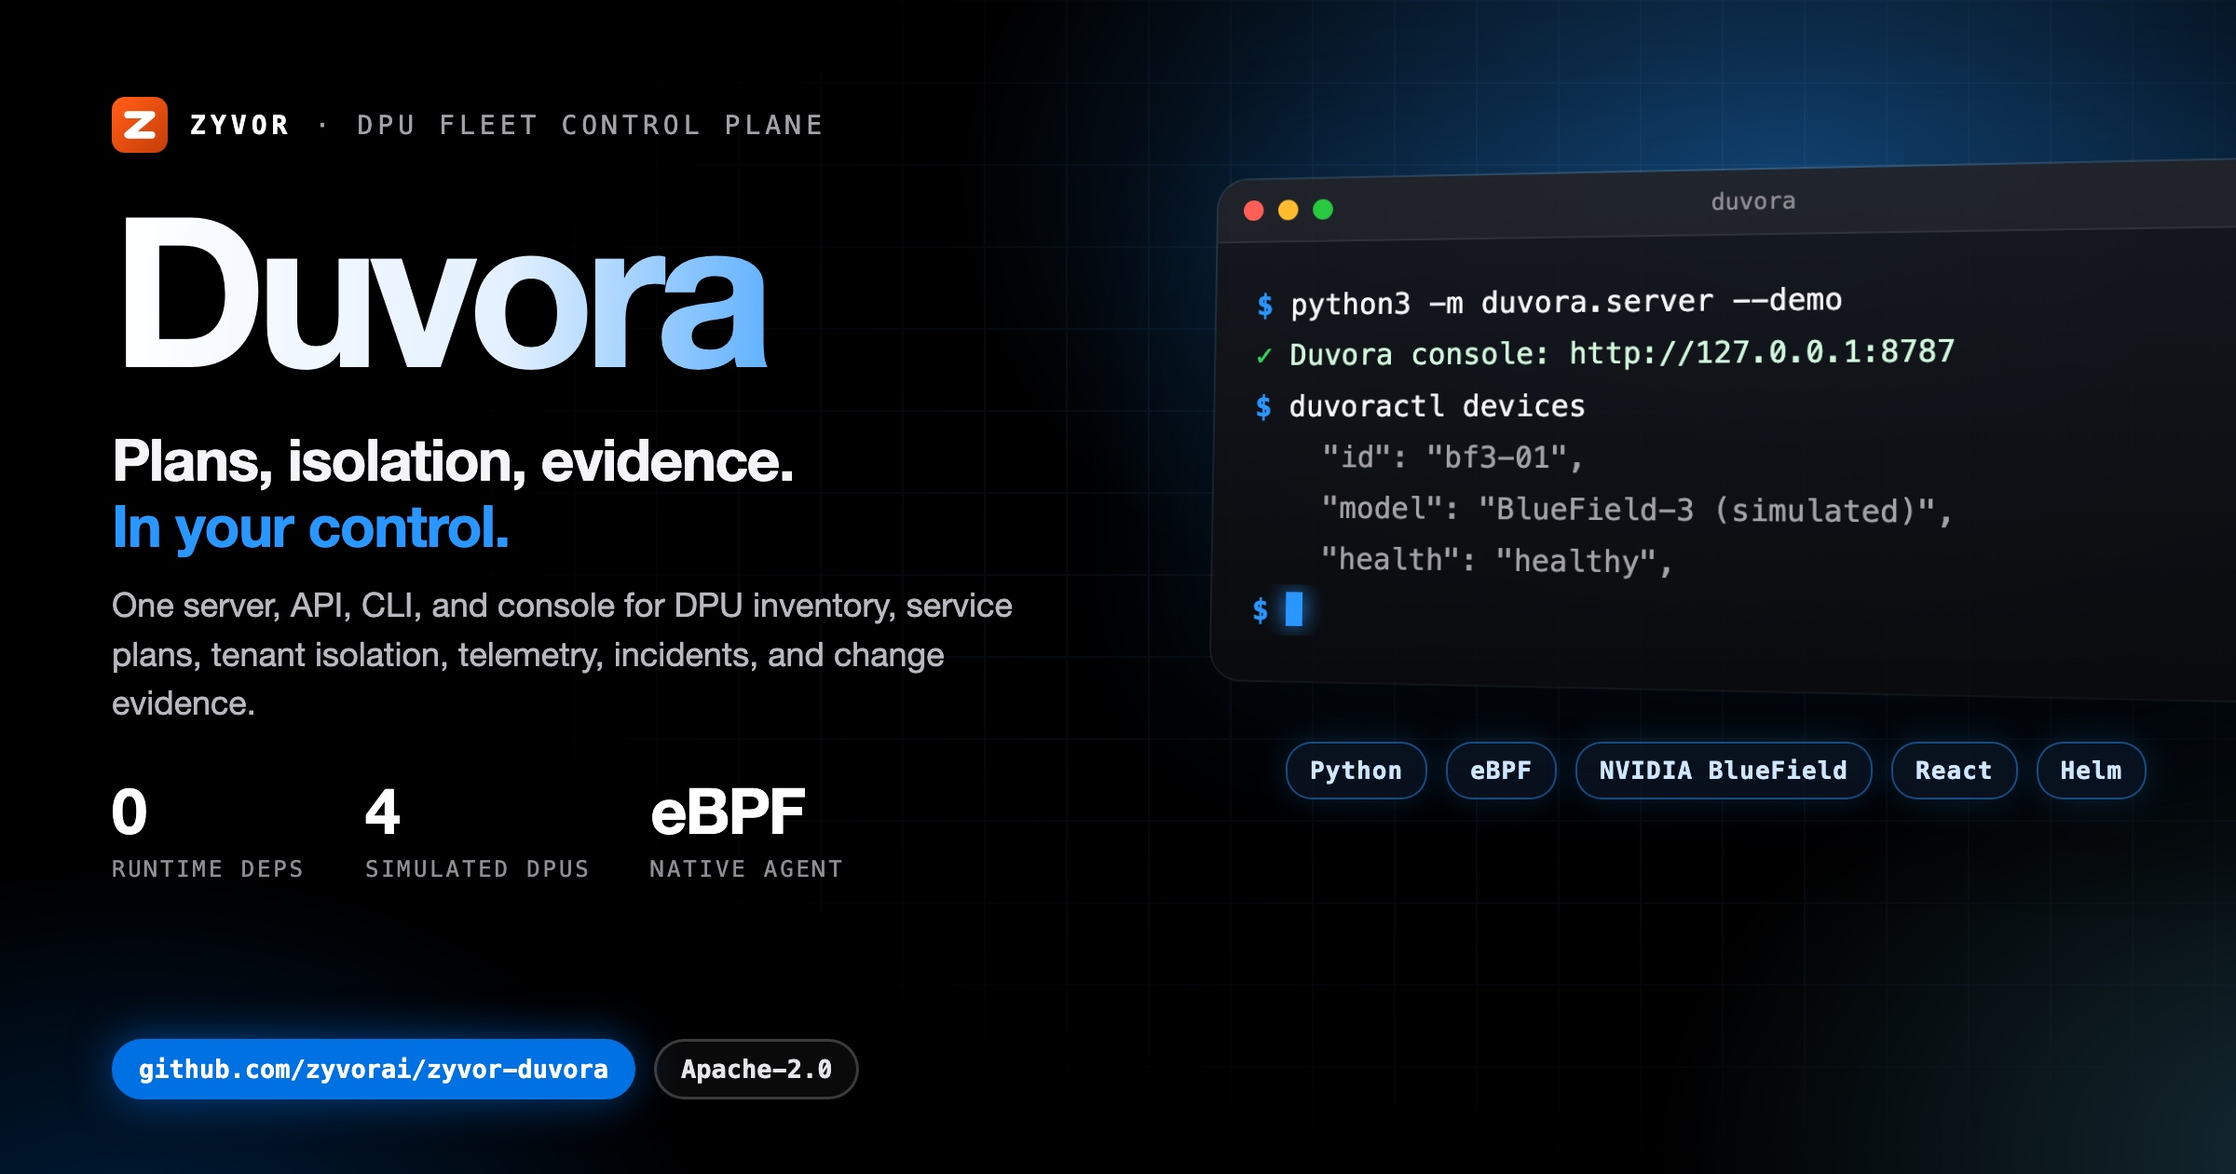
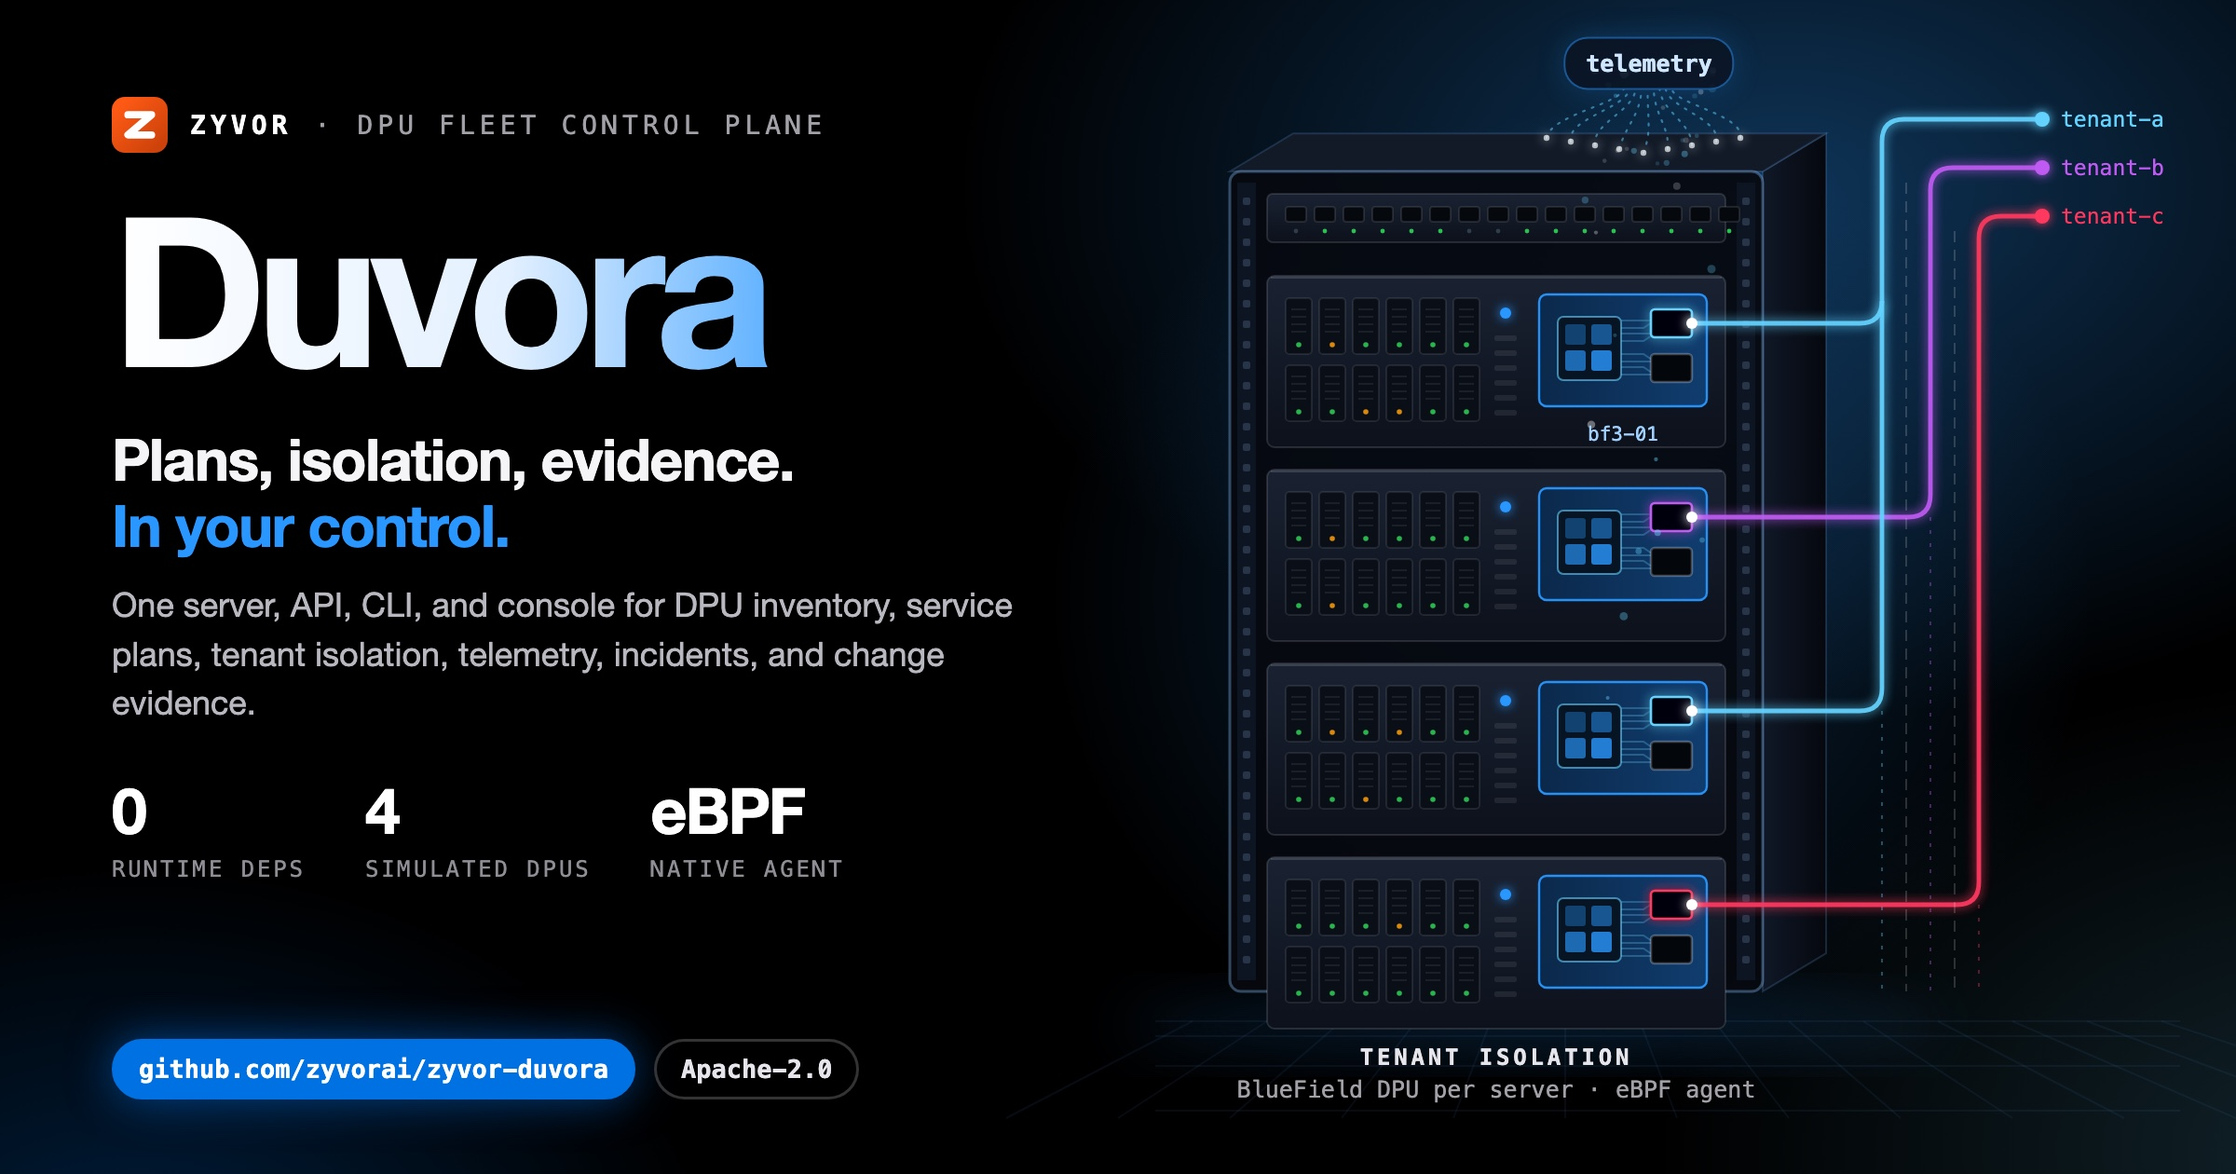
docs(social): unique illustrated hero card
Replace the shared terminal-window art with a motif drawn for this project;
same verified copy and stats on the left.

Changed region(s): [[0.5312, 0.031, 1.0, 0.9286], [0.75, 0.9286, 0.7812, 0.9595]]

diff --git a/docs/social/duvora-hero-dark.html b/docs/social/duvora-hero-dark.html
@@ -8,58 +8,47 @@
   Build: ./docs/social/build-hero-dark.sh  ->  duvora-hero-dark.jpg (2400x1260)
 -->
 <style>
-  :root { --blue:#0071e3; --signal:#2997ff; --cyan:#64d2ff; --green:#30d158; --amber:#ff9f0a;
+  :root { --blue:#0071e3; --signal:#2997ff; --cyan:#64d2ff; --green:#30d158; --amber:#ff9f0a; --red:#ff453a; --violet:#bf5af2;
     --sans:'SF Pro Display','Helvetica Neue',Helvetica,Arial,sans-serif; --mono:'SF Mono',Menlo,Consolas,monospace; }
   * { box-sizing:border-box; }
   html,body { margin:0; padding:0; }
   body { width:1200px; height:630px; overflow:hidden; color:#f5f5f7; font-family:var(--sans); position:relative; background:#000; }
   .aurora { position:absolute; inset:0;
-    background:radial-gradient(720px 460px at 80% 16%, rgba(41,151,255,.40), transparent 62%),
-               radial-gradient(600px 420px at 104% 98%, rgba(100,210,255,.20), transparent 60%),
+    background:radial-gradient(720px 460px at 80% 16%, rgba(41,151,255,.34), transparent 62%),
+               radial-gradient(600px 420px at 104% 98%, rgba(100,210,255,.16), transparent 60%),
                radial-gradient(520px 380px at 6% 110%, rgba(0,113,227,.28), transparent 60%); }
-  .grid { position:absolute; inset:0; opacity:.09;
-    background-image:linear-gradient(rgba(120,180,255,.9) 1px,transparent 1px),linear-gradient(90deg,rgba(120,180,255,.9) 1px,transparent 1px);
-    background-size:44px 44px; -webkit-mask-image:radial-gradient(900px 520px at 72% 42%, #000 18%, transparent 75%); }
-  .left { position:absolute; left:60px; top:52px; width:560px; z-index:3; }
+  .copy { position:absolute; left:60px; top:52px; width:560px; z-index:3; }
   .brand { display:flex; align-items:center; gap:12px; font-family:var(--mono); font-size:14px; letter-spacing:.18em; text-transform:uppercase; color:#a1a1a6; }
   .brand b { color:#fff; }
   .word { margin:20px 0 0; font-size:112px; line-height:.95; font-weight:800; letter-spacing:-.05em; white-space:nowrap;
     background:linear-gradient(92deg,#fff 0%,#e3f0ff 38%,var(--signal) 74%,var(--cyan) 100%); -webkit-background-clip:text; background-clip:text; color:transparent; padding-bottom:6px; }
   .tag { margin:14px 0 0; font-size:31px; line-height:1.15; font-weight:700; letter-spacing:-.02em; }
   .tag em { font-style:normal; color:var(--signal); }
-  .lede { margin:12px 0 0; font-size:18px; line-height:1.45; color:#b8b8bf; width:520px; }
+  .lede { margin:12px 0 0; font-size:18px; line-height:1.45; color:#b8b8bf; width:520px; text-shadow:0 1px 12px #000; }
   .stats { margin-top:24px; display:flex; gap:32px; }
   .stat b { display:block; font-size:34px; font-weight:800; letter-spacing:-.03em; color:#fff; }
   .stat span { font-family:var(--mono); font-size:12px; letter-spacing:.12em; text-transform:uppercase; color:#8e8e93; }
   .pill { position:absolute; left:60px; bottom:40px; display:flex; gap:10px; z-index:3; }
-  .pill span { font-family:var(--mono); font-size:13.5px; font-weight:700; padding:7px 13px; border-radius:18px; border:1.5px solid rgba(255,255,255,.2); color:#e5e5ea; background:rgba(255,255,255,.04); }
+  .pill span { font-family:var(--mono); font-size:13.5px; font-weight:700; padding:7px 13px; border-radius:18px; border:1.5px solid rgba(255,255,255,.2); color:#e5e5ea; background:rgba(0,0,0,.6); }
   .pill span.b { background:var(--blue); border-color:var(--blue); color:#fff; box-shadow:0 0 24px rgba(0,113,227,.55); }
-
-  .right { position:absolute; left:652px; top:96px; width:560px; z-index:2; }
-  .win { position:relative; width:560px; border-radius:16px; overflow:hidden; z-index:2;
-    background:linear-gradient(180deg, rgba(22,24,30,.94), rgba(10,11,14,.96));
-    box-shadow:0 50px 100px rgba(0,0,0,.75), 0 0 0 1px rgba(255,255,255,.14), 0 0 90px rgba(41,151,255,.22);
-    transform:perspective(1600px) rotateY(-14deg) rotateX(4deg); transform-origin:left center; }
-  .bar { height:34px; display:flex; align-items:center; gap:8px; padding:0 14px; background:rgba(255,255,255,.05); border-bottom:1px solid rgba(255,255,255,.07); }
-  .bar i { width:11px; height:11px; border-radius:50%; background:#ff5f57; } .bar i:nth-child(2){background:#febc2e} .bar i:nth-child(3){background:#28c840}
-  .bar em { margin-left:auto; margin-right:auto; font-style:normal; font-family:var(--mono); font-size:12px; color:#8e8e93; transform:translateX(-24px); }
-  .term { min-height:214px; padding:20px 22px 24px; font-family:var(--mono); font-size:15.5px; line-height:1.75; }
-  .l { white-space:pre; overflow:hidden; text-overflow:ellipsis; color:#f5f5f7; }
-  .l .p { color:var(--signal); font-weight:700; }
-  .l.out { color:#a1a1a6; }
-  .l.cm { color:#6e6e73; }
-  .l.ok { color:#d1f7dc; } .l.ok span { color:var(--green); font-weight:700; }
-  .l.warn { color:#ffe1b0; } .l.warn span { color:var(--amber); font-weight:700; }
-  .cur { display:inline-block; width:9px; height:18px; background:var(--signal); vertical-align:-3px; box-shadow:0 0 12px var(--signal); }
-  .chips { margin:34px 0 0 38px; width:480px; display:flex; flex-wrap:wrap; gap:10px; position:relative; z-index:3; }
-  .chips span { font-family:var(--mono); font-size:13px; font-weight:700; letter-spacing:.04em; padding:7px 12px; border-radius:14px;
-    color:#cfe6ff; background:rgba(10,20,35,.82); border:1px solid rgba(41,151,255,.45); box-shadow:0 0 18px rgba(41,151,255,.18); }
+  .art { position:absolute; left:520px; top:0; width:680px; height:630px; z-index:2; }
+  .art svg { display:block; }
+  #labels { position:absolute; inset:0; z-index:4; pointer-events:none; }
+  .lbl { position:absolute; font-family:var(--mono); font-size:12.5px; color:#a1a1a6; text-align:center; transform:translate(-50%,-50%); white-space:nowrap; }
+  .lbl b { display:block; font-size:12px; letter-spacing:.16em; text-transform:uppercase; color:#e5e5ea; }
+  .lbl span { display:block; margin-top:3px; }
+  .lbl.box { padding:7px 12px; border-radius:12px; background:rgba(8,10,14,.85); border:1px solid rgba(255,255,255,.14); }
+  .lbl.chip { padding:6px 11px; border-radius:13px; font-size:12.5px; font-weight:700; color:#cfe6ff; background:rgba(10,20,35,.85); border:1px solid rgba(41,151,255,.5); box-shadow:0 0 16px rgba(41,151,255,.2); }
+  .lbl.left { transform:translate(0,-50%); text-align:left; }
+  .lbl.right { transform:translate(-100%,-50%); text-align:right; }
+  .ok { color:var(--green) !important; } .warn { color:var(--amber) !important; } .bad { color:var(--red) !important; } .sig { color:var(--signal) !important; } .cy { color:var(--cyan) !important; } .vi { color:var(--violet) !important; }
 </style>
 </head>
 <body>
 <div class="aurora"></div>
-<div class="grid"></div>
-<div class="left">
+<div class="art"><svg id="art" width="680" height="630" viewBox="0 0 680 630" xmlns="http://www.w3.org/2000/svg"></svg></div>
+<div id="labels"></div>
+<div class="copy">
   <div class="brand"><svg viewBox="0 0 64 64" width="30" height="30" aria-hidden="true"><defs><linearGradient id="zb" x1="8" y1="8" x2="56" y2="56" gradientUnits="userSpaceOnUse"><stop offset="0" stop-color="#ff5a15"/><stop offset="1" stop-color="#cc420a"/></linearGradient></defs><rect width="64" height="64" rx="15" fill="url(#zb)"/><path d="M18.5,20.5 45.5,20.5 18.5,43.5 45.5,43.5" fill="none" stroke="#fff" stroke-width="8.3" stroke-linecap="round" stroke-linejoin="round"/></svg><b>Zyvor</b><span>&middot;</span><span>DPU fleet control plane</span></div>
   <div class="word">Duvora</div>
   <div class="tag">Plans, isolation, evidence.<br><em>In your control.</em></div>
@@ -67,8 +56,136 @@
   <div class="stats"><div class="stat"><b>0</b><span>runtime deps</span></div><div class="stat"><b>4</b><span>simulated DPUs</span></div><div class="stat"><b>eBPF</b><span>native agent</span></div></div>
 </div>
 <div class="pill"><span class="b">github.com/zyvorai/zyvor-duvora</span><span>Apache-2.0</span></div>
-<div class="right"><div class="win"><div class="bar"><i></i><i></i><i></i><em>duvora</em></div>
-<div class="term"><div class="l"><span class="p">$</span> python3 -m duvora.server --demo</div><div class="l ok"><span>&#10003;</span> Duvora console: http://127.0.0.1:8787</div><div class="l"><span class="p">$</span> duvoractl devices</div><div class="l out">    &quot;id&quot;: &quot;bf3-01&quot;,</div><div class="l out">    &quot;model&quot;: &quot;BlueField-3 (simulated)&quot;,</div><div class="l out">    &quot;health&quot;: &quot;healthy&quot;,</div><div class="l"><span class="p">$</span> <i class="cur"></i></div></div></div>
-<div class="chips"><span>Python</span><span>eBPF</span><span>NVIDIA BlueField</span><span>React</span><span>Helm</span></div></div>
+<script>
+var Z = (function () {
+  var NS = 'http://www.w3.org/2000/svg', svg = document.getElementById('art'), labels = document.getElementById('labels');
+  var seed = 20261004;
+  function rnd() { seed = (seed * 1103515245 + 12345) % 2147483648; return seed / 2147483648; }
+  function el(tag, a, parent) { var n = document.createElementNS(NS, tag); for (var k in a) n.setAttribute(k, a[k]); (parent || svg).appendChild(n); return n; }
+  function g(attrs) { return el('g', attrs || {}); }
+  function label(x, y, inner, cls, style) { var d = document.createElement('div'); d.className = 'lbl ' + (cls || ''); d.style.left = (520 + x) + 'px'; d.style.top = y + 'px'; if (style) d.setAttribute('style', d.getAttribute('style') + ';' + style); d.innerHTML = inner; labels.appendChild(d); return d; }
+  return { NS: NS, svg: svg, W: 680, H: 630, rnd: rnd, el: el, g: g, label: label,
+    reseed: function (s) { seed = s; },
+    c: { blue: '#0071e3', signal: '#2997ff', cyan: '#64d2ff', green: '#30d158', amber: '#ff9f0a', red: '#ff453a', violet: '#bf5af2', teal: '#40c8e0', indigo: '#5e5ce6', pink: '#ff375f', white: '#f5f5f7', grey: '#8e8e93' } };
+})();
+(function () {
+// Duvora: rack elevation. Four servers, each with a BlueField DPU card; tenant lanes run through the rack, isolated; telemetry sparks rise.
+var C = Z.c;
+var defs = Z.el('defs', {});
+defs.innerHTML = '<filter id="dvGl" filterUnits="userSpaceOnUse" x="-50" y="-50" width="780" height="730"><feGaussianBlur stdDeviation="3" result="b"/><feMerge><feMergeNode in="b"/><feMergeNode in="SourceGraphic"/></feMerge></filter>' +
+  '<filter id="dvSf" x="-50%" y="-50%" width="200%" height="200%"><feGaussianBlur stdDeviation="16"/></filter>' +
+  '<linearGradient id="dvSrv" x1="0" y1="0" x2="0" y2="1"><stop offset="0" stop-color="#1a2232"/><stop offset="1" stop-color="#0c111b"/></linearGradient>' +
+  '<linearGradient id="dvSide" x1="0" y1="0" x2="1" y2="0"><stop offset="0" stop-color="#101827"/><stop offset="1" stop-color="#05080e"/></linearGradient>' +
+  '<linearGradient id="dvDpu" x1="0" y1="0" x2="1" y2="0"><stop offset="0" stop-color="#0b2a4d"/><stop offset="1" stop-color="#103f73"/></linearGradient>' +
+  '<radialGradient id="dvHalo"><stop offset="0" stop-color="#2997ff" stop-opacity=".45"/><stop offset="1" stop-color="#2997ff" stop-opacity="0"/></radialGradient>';
+
+var RX = 140, RW = 286, RY = 92, RH = 440, DEP = 34;
+// halo + floor glow
+Z.el('ellipse', { cx: RX + RW / 2 + 40, cy: 320, rx: 280, ry: 260, fill: 'url(#dvHalo)', opacity: .55 });
+Z.el('ellipse', { cx: RX + RW / 2 + 20, cy: RY + RH + 18, rx: 220, ry: 14, fill: '#2997ff', opacity: .18, filter: 'url(#dvSf)' });
+
+// faint floor grid behind
+for (var i = 0; i < 9; i++) {
+  Z.el('line', { x1: 110, y1: 560 + i * 0, x2: 650, y2: 560, stroke: 'none' });
+}
+for (var i = 0; i < 14; i++) {
+  var gx = 120 + i * 40;
+  Z.el('line', { x1: gx, y1: 548, x2: 320 + (gx - 320) * 1.5, y2: 600, stroke: 'rgba(100,170,255,.07)' });
+}
+for (var j = 0; j < 4; j++) { var gy = 548 + j * j * 4 + j * 4; Z.el('line', { x1: 100, y1: gy, x2: 650, y2: gy, stroke: 'rgba(100,170,255,.07)' }); }
+
+// rack side (depth) panel
+Z.el('path', { d: 'M' + (RX + RW) + ',' + RY + ' l' + DEP + ',-' + (DEP * .6) + ' v' + RH + ' l-' + DEP + ',' + (DEP * .6) + 'Z', fill: 'url(#dvSide)', stroke: 'rgba(120,185,255,.18)' });
+Z.el('path', { d: 'M' + RX + ',' + RY + ' l' + DEP + ',-' + (DEP * .6) + ' h' + RW + ' l-' + DEP + ',' + (DEP * .6) + 'Z', fill: '#121a28', stroke: 'rgba(120,185,255,.18)' });
+// rack frame
+Z.el('rect', { x: RX, y: RY, width: RW, height: RH, rx: 6, fill: 'rgba(6,9,15,.92)', stroke: 'rgba(140,195,255,.35)', 'stroke-width': 1.5 });
+for (var k = 0; k < 2; k++) {
+  var rx = k ? RX + RW - 14 : RX + 4;
+  Z.el('rect', { x: rx, y: RY + 6, width: 10, height: RH - 12, fill: '#0e1522' });
+  for (var h = RY + 14; h < RY + RH - 10; h += 11) Z.el('rect', { x: rx + 3, y: h, width: 4, height: 4, rx: 1, fill: 'rgba(160,200,255,.18)' });
+}
+
+// top-of-rack switch
+var sx = RX + 20, sw = RW - 40;
+Z.el('rect', { x: sx, y: RY + 12, width: sw, height: 26, rx: 3, fill: 'url(#dvSrv)', stroke: 'rgba(255,255,255,.12)' });
+for (var p = 0; p < 16; p++) {
+  Z.el('rect', { x: sx + 10 + p * 15.5, y: RY + 19, width: 11, height: 8, rx: 1.5, fill: '#05080d', stroke: 'rgba(255,255,255,.1)' });
+  Z.el('circle', { cx: sx + 15.5 + p * 15.5, cy: RY + 32, r: 1.2, fill: Z.rnd() > .25 ? C.green : '#33404f', opacity: .9 });
+}
+
+// tenants
+var tenants = [{ c: C.cyan, n: 'tenant-a' }, { c: C.violet, n: 'tenant-b' }, { c: C.pink, n: 'tenant-c' }];
+var owner = [0, 1, 0, 2];
+var laneX = [RX + RW + DEP + 30, RX + RW + DEP + 56, RX + RW + DEP + 82], laneTop = [64, 90, 116];
+var srvH = 92, srvY0 = RY + 56, gap = 12;
+var ports = [];
+for (var s = 0; s < 4; s++) {
+  var y = srvY0 + s * (srvH + gap);
+  Z.el('rect', { x: sx, y: y, width: sw, height: srvH, rx: 4, fill: 'url(#dvSrv)', stroke: 'rgba(255,255,255,.13)' });
+  Z.el('line', { x1: sx + 2, y1: y + 1, x2: sx + sw - 2, y2: y + 1, stroke: 'rgba(255,255,255,.14)' });
+  // drive bays (2 rows x 6)
+  for (var r = 0; r < 2; r++) for (var b = 0; b < 6; b++) {
+    var bx = sx + 10 + b * 18, by = y + 12 + r * 36;
+    Z.el('rect', { x: bx, y: by, width: 14, height: 30, rx: 2, fill: '#0a0f17', stroke: 'rgba(255,255,255,.09)' });
+    for (var v = 0; v < 4; v++) Z.el('line', { x1: bx + 3, y1: by + 6 + v * 4, x2: bx + 11, y2: by + 6 + v * 4, stroke: 'rgba(255,255,255,.07)' });
+    Z.el('circle', { cx: bx + 7, cy: by + 25, r: 1.4, fill: Z.rnd() > .15 ? C.green : C.amber, opacity: .85 });
+  }
+  // power / status column
+  Z.el('circle', { cx: sx + 128, cy: y + 20, r: 3, fill: C.signal, filter: 'url(#dvGl)' });
+  for (var v = 0; v < 6; v++) Z.el('rect', { x: sx + 122, y: y + 32 + v * 8, width: 12, height: 3, rx: 1, fill: 'rgba(255,255,255,.08)' });
+  // DPU card
+  var dx = sx + 146, dw = sw - 156, dy = y + 10, dh = srvH - 32, col = tenants[owner[s]].c;
+  Z.el('rect', { x: dx, y: dy, width: dw, height: dh, rx: 4, fill: 'url(#dvDpu)', stroke: C.signal, 'stroke-width': 1.2, opacity: .95 });
+  // SoC die with arm cores
+  Z.el('rect', { x: dx + 10, y: dy + 12, width: 34, height: 34, rx: 3, fill: '#071423', stroke: 'rgba(100,210,255,.6)' });
+  for (var cI = 0; cI < 4; cI++) Z.el('rect', { x: dx + 14 + (cI % 2) * 14, y: dy + 16 + Math.floor(cI / 2) * 14, width: 11, height: 11, rx: 1.5, fill: C.signal, opacity: .35 + .15 * cI });
+  // traces
+  for (var t = 0; t < 4; t++) Z.el('path', { d: 'M' + (dx + 44) + ',' + (dy + 18 + t * 7) + ' h12 l6,' + (t < 2 ? -4 : 4) + ' h' + (dw - 108), fill: 'none', stroke: 'rgba(100,210,255,.28)', 'stroke-width': 1 });
+  // two QSFP ports, the first one carries the tenant lane
+  for (var q = 0; q < 2; q++) {
+    var qx = dx + dw - 30, qy = dy + 8 + q * 24;
+    Z.el('rect', { x: qx, y: qy, width: 22, height: 15, rx: 2, fill: '#03060b', stroke: q === 0 ? col : 'rgba(255,255,255,.25)', 'stroke-width': 1.3, filter: q === 0 ? 'url(#dvGl)' : null });
+  }
+  ports.push({ x: dx + dw - 8, y: dy + 15.5, c: col, t: owner[s] });
+}
+
+// tenant lanes: each port runs right to its own vertical lane; lanes never cross
+ports.forEach(function (p, i) {
+  var lx = laneX[p.t];
+  Z.el('path', { d: 'M' + p.x + ',' + p.y + ' H' + (lx - 12) + ' Q' + lx + ',' + p.y + ' ' + lx + ',' + (p.y - 12), fill: 'none', stroke: p.c, 'stroke-width': 2.4, filter: 'url(#dvGl)', opacity: .95 });
+  Z.el('circle', { cx: p.x, cy: p.y, r: 3, fill: '#fff', filter: 'url(#dvGl)' });
+});
+tenants.forEach(function (t, i) {
+  var ys = ports.filter(function (p) { return p.t === i; }).map(function (p) { return p.y; });
+  var bottom = Math.max.apply(null, ys) - 12, top = laneTop[i], ex = laneX[2] + 34;
+  Z.el('path', { d: 'M' + laneX[i] + ',' + bottom + ' V' + (top + 12) + ' Q' + laneX[i] + ',' + top + ' ' + (laneX[i] + 12) + ',' + top + ' H' + ex, fill: 'none', stroke: t.c, 'stroke-width': 2.4, filter: 'url(#dvGl)', opacity: .95 });
+  Z.el('circle', { cx: ex, cy: top, r: 4, fill: t.c, filter: 'url(#dvGl)' });
+  Z.label(ex + 10, top, t.n, 'left', 'font-size:11.5px;color:' + t.c);
+  Z.el('line', { x1: laneX[i], y1: bottom + 12, x2: laneX[i], y2: RY + RH, stroke: t.c, 'stroke-width': 1, 'stroke-dasharray': '2 5', opacity: .35 });
+});
+// isolation walls between lanes
+[laneX[0] + 13, laneX[1] + 13].forEach(function (wx, i) {
+  Z.el('line', { x1: wx, y1: laneTop[i + 1] + 8, x2: wx, y2: RY + RH, stroke: 'rgba(255,255,255,.16)', 'stroke-width': 1, 'stroke-dasharray': '6 4' });
+});
+
+// telemetry sparks rising from the DPU cards
+for (var i = 0; i < 70; i++) {
+  var s = Math.floor(Z.rnd() * 4), y0 = srvY0 + s * (srvH + gap) + 20;
+  var x = sx + 170 + Z.rnd() * 70, y = y0 - Z.rnd() * (y0 - 30);
+  var a = .15 + (1 - (y0 - y) / y0) * .55 * Z.rnd();
+  if (x > sx && x < sx + sw && y > RY && y < RY + RH && Z.rnd() > .25) continue;
+  Z.el('circle', { cx: x.toFixed(1), cy: y.toFixed(1), r: (0.8 + Z.rnd() * 1.6).toFixed(2), fill: Z.rnd() > .3 ? C.cyan : '#fff', opacity: a.toFixed(2) });
+}
+for (var i = 0; i < 9; i++) {
+  var x = sx + 150 + i * 13, y0 = RY - 10 - Math.abs(i - 4) * 2;
+  Z.el('path', { d: 'M' + x + ',' + y0 + ' C' + (x + Z.rnd() * 12 - 6) + ',' + (y0 - 12) + ' ' + (sx + 205 + (x - sx - 205) * .3) + ',' + (y0 - 18) + ' ' + (sx + 205 + (x - sx - 205) * .25) + ',48', fill: 'none', stroke: C.cyan, 'stroke-width': 1.1, opacity: .5, 'stroke-linecap': 'round', 'stroke-dasharray': '1 4' });
+  Z.el('circle', { cx: x, cy: y0, r: 1.6, fill: '#fff', opacity: .7, filter: 'url(#dvGl)' });
+}
+
+Z.label(sx + 146 + (sw - 156) / 2, srvY0 + srvH - 7, 'bf3-01', '', 'font-size:10.5px;color:#9fd0ff');
+Z.label(RX + RW / 2, RY + RH + 44, '<b>tenant isolation</b><span>BlueField DPU per server &middot; eBPF agent</span>');
+Z.label(sx + 205, 34, 'telemetry', 'chip');
+})();
+</script>
 </body>
 </html>
